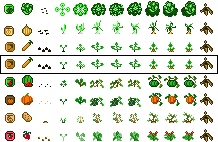
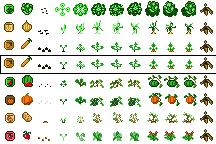
WIP - Show more than one type of seeds in the Buy Menu

diff --git a/src/managers/BuyManager.js b/src/managers/BuyManager.js
@@ -19,13 +19,23 @@ export default class BuyManager {
   }
 
   init () {
-    this.purchasableItems.push(new BuyItemElement({
+    const config = {
       game: this.game,
       scene: this.scene,
-      imageManager: this.imageManager,
-      y: this.dialogRect.top + 6,
+      imageManager: this.imageManager
+    }
+    this.purchasableItems.push(new BuyItemElement({
+      ...config,
       selected: true, // make false for subsequent items
-      type: EntityTypes.LettuceSeed
+      type: EntityTypes.LettuceSeed,
+      y: this.dialogRect.top + 6
+    }))
+
+    this.purchasableItems.push(new BuyItemElement({
+      ...config,
+      selected: false,
+      type: EntityTypes.TomatoSeed,
+      y: this.dialogRect.top + 2 * StoreUIData.BuyItem.height + 6
     }))
 
     this.purchasableItems.forEach(item => item.init())

diff --git a/src/uiElements/BuyItemElement.js b/src/uiElements/BuyItemElement.js
@@ -23,11 +23,12 @@ function getNameForType (type) {
   switch (type) {
     case EntityTypes.LettuceSeed:
       return 'Lettuce Seed'
+    case EntityTypes.TomatoSeed:
+      return 'Tomato Seed'
   }
 }
 
 function getPacketForType (element, type) {
-  let packet = null
   const config = {
     game: element.game,
     imageManager: element.imageManager,
@@ -39,12 +40,8 @@ function getPacketForType (element, type) {
     quantity: 1
   }
 
-  switch (type) {
-    case EntityTypes.LettuceSeed:
-      packet = new SeedPacket(config)
-      break
-  }
-
+  const packet = new SeedPacket(config)
   packet.init()
+
   return packet
 }

diff --git a/src/globals/SeedPacketAnimations.js b/src/globals/SeedPacketAnimations.js
@@ -160,8 +160,16 @@ export const Watermelon = {
 const SeedPacketAnimations = {
   [EntityTypes.CarrotSeed]: Carrot,
   [EntityTypes.CornSeed]: Corn,
+  [EntityTypes.EggplantSeed]: Eggplant,
   [EntityTypes.LettuceSeed]: Lettuce,
-  [EntityTypes.OnionSeed]: Onion
+  [EntityTypes.OnionSeed]: Onion,
+  [EntityTypes.PepperSeed]: Pepper,
+  [EntityTypes.PotatoSeed]: Potato,
+  [EntityTypes.PumpkinSeed]: Pumpkin,
+  [EntityTypes.RadishSeed]: Radish,
+  [EntityTypes.StrawberrySeed]: Strawberry,
+  [EntityTypes.TomatoSeed]: Tomato,
+  [EntityTypes.WatermelonSeed]: Watermelon
 }
 
 export default SeedPacketAnimations
